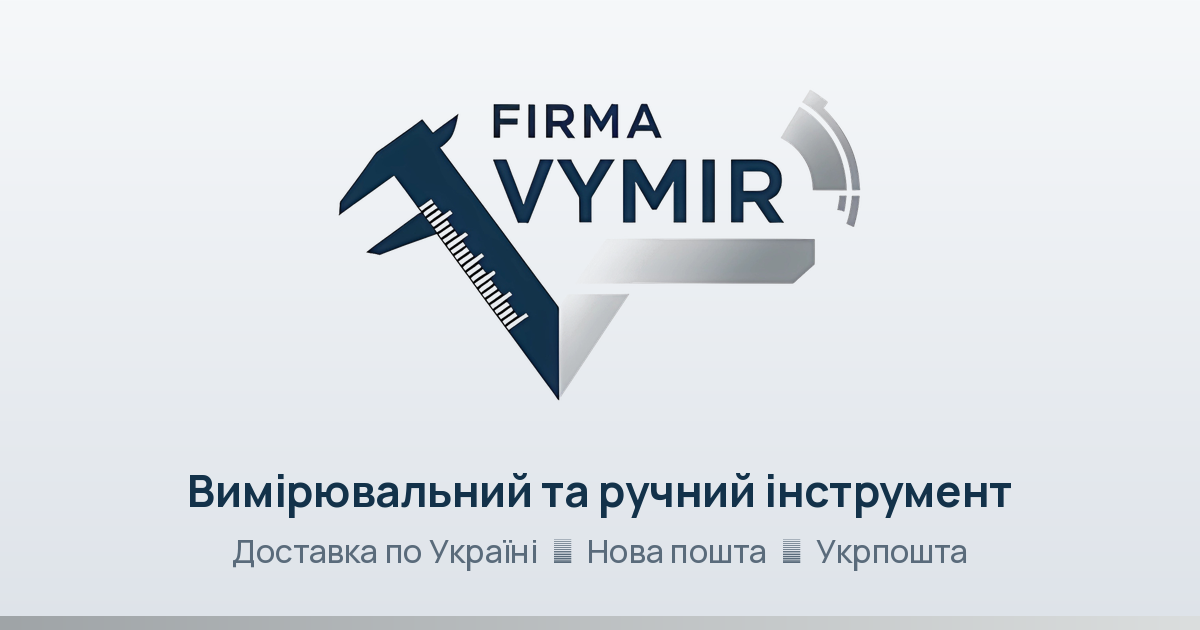
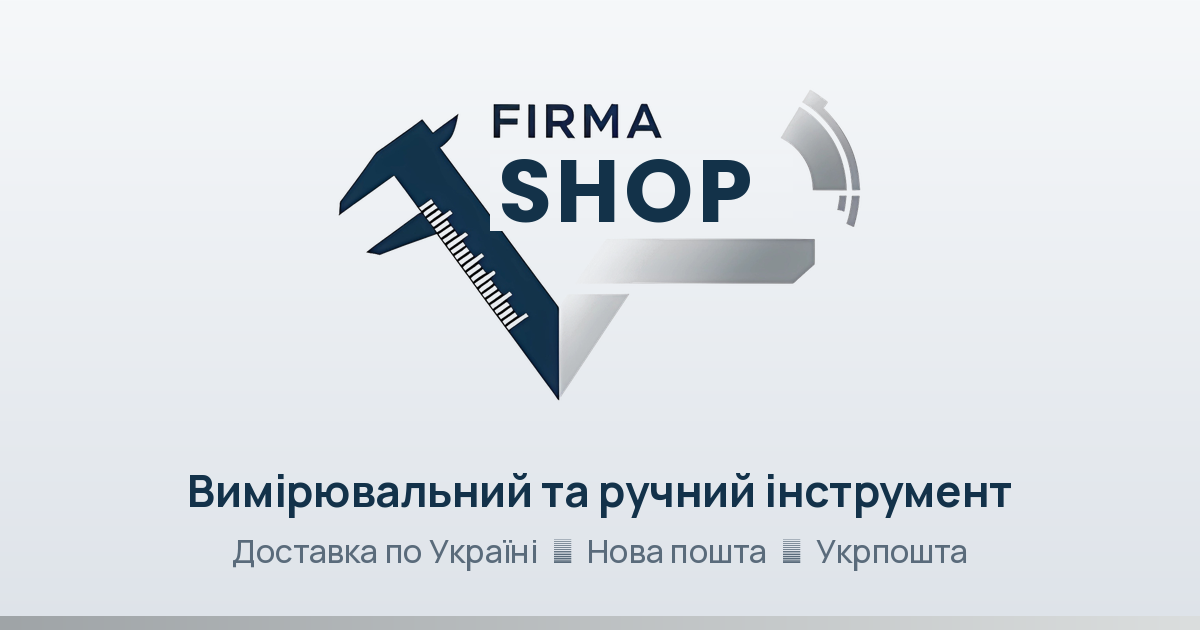
Add files via upload

Changed region(s): [[0.4008, 0.2413, 0.6783, 0.3619]]

diff --git a/src/app/layout.tsx b/src/app/layout.tsx
@@ -10,17 +10,17 @@ export const dynamic = "force-dynamic";
 
 export const metadata: Metadata = {
   metadataBase: new URL(SITE_URL),
-  title: "Firma Vymir — вимірювальний та ручний інструмент",
+  title: "Firma SHOP — вимірювальний та ручний інструмент",
   description: "Інтернет-магазин інструменту, вимірювальної техніки та гаджетів. Доставка по Україні.",
   icons: {
     icon: [{ url: "/brand/favicon-32.png", sizes: "32x32", type: "image/png" }, { url: "/brand/icon-192.png", sizes: "192x192", type: "image/png" }],
     apple: "/brand/apple-touch-icon.png",
   },
   openGraph: {
-    siteName: "Firma Vymir",
+    siteName: "Firma SHOP",
     locale: "uk_UA",
     type: "website",
-    images: [{ url: "/brand/og.png", width: 1200, height: 630, alt: "Firma Vymir — вимірювальний та ручний інструмент" }],
+    images: [{ url: "/brand/og.png", width: 1200, height: 630, alt: "Firma SHOP — вимірювальний та ручний інструмент" }],
   },
   other: { "theme-color": "#133249" },
 };

diff --git a/src/components/SiteHeader.tsx b/src/components/SiteHeader.tsx
@@ -24,10 +24,10 @@ export default async function SiteHeader() {
   return (
     <header className="site-header">
       <div className="site-header-inner">
-        <Link href="/" className="brand" aria-label="Firma Vymir — на головну">
+        <Link href="/" className="brand" aria-label="Firma SHOP — на головну">
           {/* eslint-disable-next-line @next/next/no-img-element */}
           <img src="/brand/mark-64.png" width={36} height={36} alt="" />
-          <span className="brand-text"><small>FIRMA</small><b>VYMIR</b></span>
+          <span className="brand-text"><small>FIRMA</small><b>SHOP</b></span>
         </Link>
         <CatalogMenu groups={groups} />
         <SearchBox className="header-search" placeholder="Назва або артикул" />

diff --git a/src/app/globals.css b/src/app/globals.css
@@ -1,5 +1,5 @@
 /* ============================================================================
-   Дизайн-система — интернет-магазин "Firma Vymir"  ·  вариант B «Сучасний»
+   Дизайн-система — интернет-магазин "Firma SHOP"  ·  вариант B «Сучасний»
    Палитра берётся из логотипа: тёмно-синий (штангенциркуль) и серебристый.
    Шрифт: Manrope (хранится на самом сайте, без обращения к внешним сервисам).
    Знаковый приём: деления измерительной шкалы как тонкие разделители.

diff --git a/src/components/SiteFooter.tsx b/src/components/SiteFooter.tsx
@@ -9,7 +9,7 @@ export default function SiteFooter() {
       <div className="footer-brand" aria-hidden="true">
         {/* eslint-disable-next-line @next/next/no-img-element */}
         <img src="/brand/mark-64.png" width={28} height={28} alt="" />
-        <span className="brand-text"><small>FIRMA</small><b>VYMIR</b></span>
+        <span className="brand-text"><small>FIRMA</small><b>SHOP</b></span>
       </div>
       <nav aria-label="Умови">
         {legalPages().filter((p) => p.slug !== "black-friday").map((p) => (

diff --git a/src/lib/site.ts b/src/lib/site.ts
@@ -1,6 +1,6 @@
 // Общие константы сайта. Основний домен: firmashop.com.ua (можна перевизначити через NEXT_PUBLIC_SITE_URL у налаштуваннях збірки).
 export const SITE_URL = (process.env.NEXT_PUBLIC_SITE_URL ?? "https://firmashop.com.ua").replace(/\/$/, "");
-export const SITE_NAME = "Firma Vymir";
+export const SITE_NAME = "Firma SHOP";
 export const SHOP_PHONE = "+380968623435";
 export const SHOP_PHONE_TEXT = "+38 (096) 862-34-35";
 

diff --git a/README.md b/README.md
@@ -1,4 +1,4 @@
-# Firma Shop — новый сайт
+# Firma SHOP — новый сайт
 
 Что это: заготовка нового интернет-магазина взамен firmashop.prom.ua.
 Сайт уже собирается и открывается локально, но работает пока на тестовых
